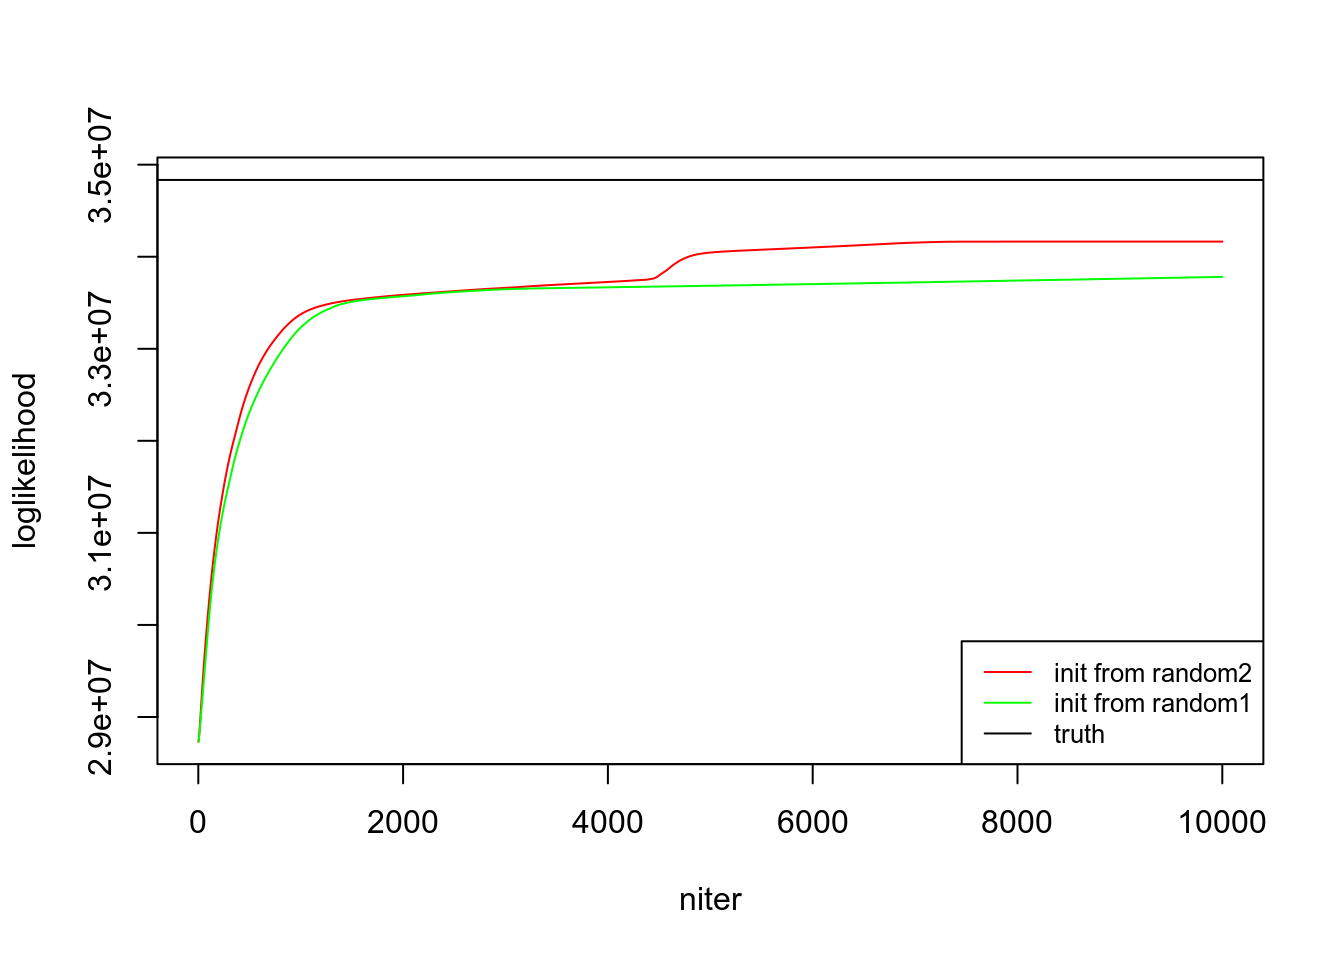
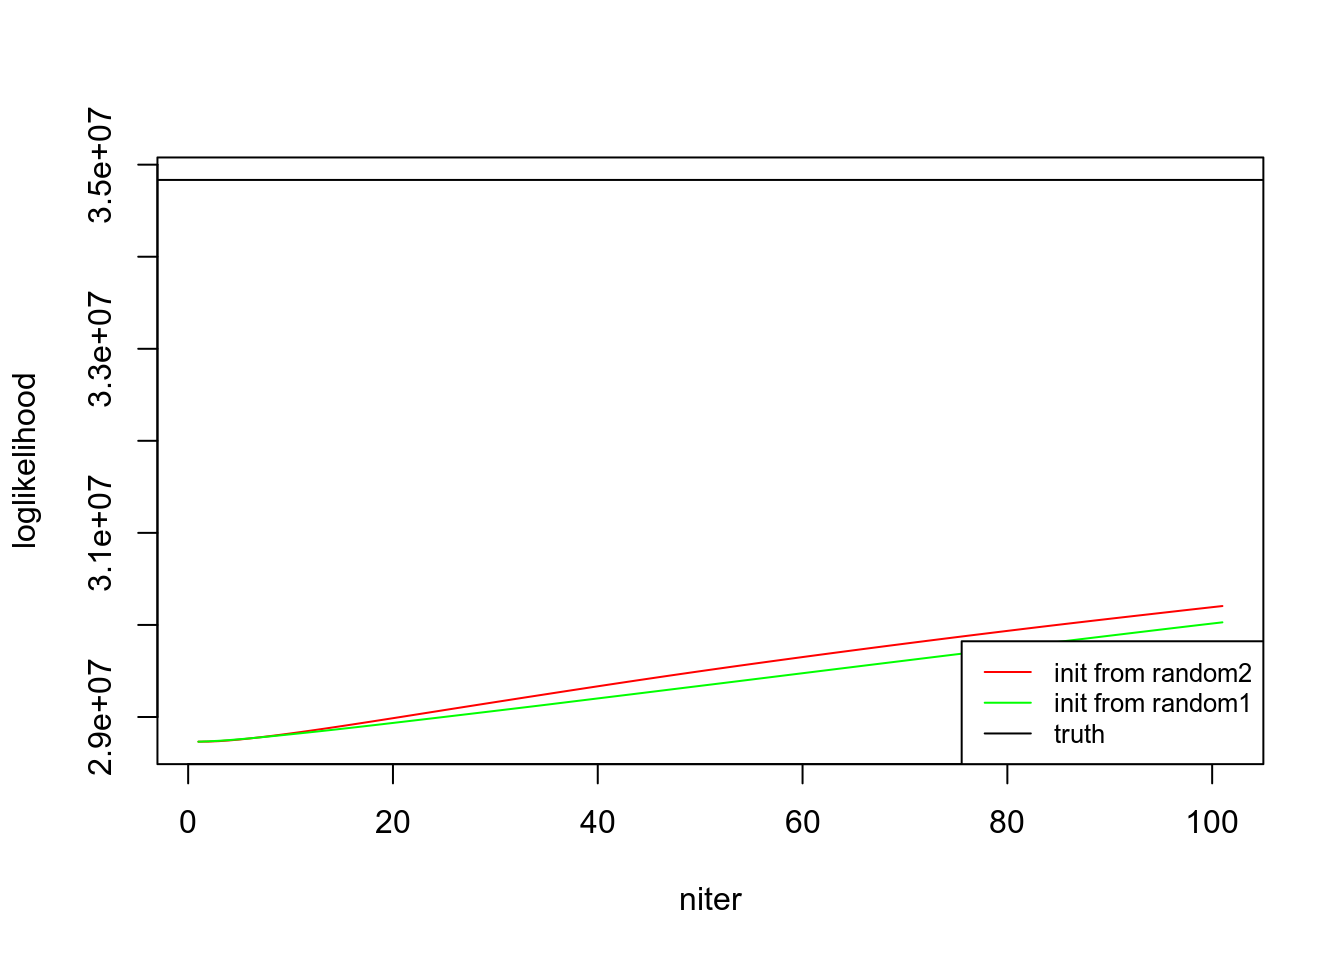
Build site.

diff --git a/docs/experiment_nb_means2.html b/docs/experiment_nb_means2.html
@@ -509,10 +509,10 @@ unnamed-chunk-3
 <div class="panel panel-default">
 <div class="panel-heading">
 <p class="panel-title">
-<a data-toggle="collapse" data-parent="#workflowr-checks" href="#strongRepositoryversionstrongahrefhttpsgithubcomzihao12ebpmfdemotreec487ef6f370ba98d4012d82a36557c9849fa5d11targetblankc487ef6a"> <span class="glyphicon glyphicon-ok text-success" aria-hidden="true"></span> <strong>Repository version:</strong> <a href="https://github.com/zihao12/ebpmf_demo/tree/c487ef6f370ba98d4012d82a36557c9849fa5d11" target="_blank">c487ef6</a> </a>
+<a data-toggle="collapse" data-parent="#workflowr-checks" href="#strongRepositoryversionstrongahrefhttpsgithubcomzihao12ebpmfdemotree7dc6921f296df5854e1e698ed3ac3aacebb5b230targetblank7dc6921a"> <span class="glyphicon glyphicon-ok text-success" aria-hidden="true"></span> <strong>Repository version:</strong> <a href="https://github.com/zihao12/ebpmf_demo/tree/7dc6921f296df5854e1e698ed3ac3aacebb5b230" target="_blank">7dc6921</a> </a>
 </p>
 </div>
[2 lines of base64/hex data omitted]
 <div class="panel-body">
 <p>
 Great! You are using Git for version control. Tracking code development and connecting the code version to the results is critical for reproducibility. The version displayed above was the version of the Git repository at the time these results were generated. <br><br> Note that you need to be careful to ensure that all relevant files for the analysis have been committed to Git prior to generating the results (you can use <code>wflow_publish</code> or <code>wflow_git_commit</code>). workflowr only checks the R Markdown file, but you know if there are other scripts or data files that it depends on. Below is the status of the Git repository when the results were generated:
@@ -528,7 +528,6 @@ Untracked files:
     Untracked:  analysis/demo_sparse_ebpmf_two_gamma_cache/
     Untracked:  analysis/ebpm_two_gamma_speed.Rmd
     Untracked:  analysis/experiment_ebpm_gammamix3_cache/
-    Untracked:  analysis/experiment_nb_means2_cache/
     Untracked:  analysis/experiment_nb_means_cache_0/
     Untracked:  analysis/fast_mle_nb.Rmd
     Untracked:  analysis/fast_weighted_nb.Rmd
@@ -596,6 +595,40 @@ Message
 </tr>
 </thead>
 <tbody>
+<tr>
+<td>
+Rmd
+</td>
+<td>
+<a href="https://github.com/zihao12/ebpmf_demo/blob/7dc6921f296df5854e1e698ed3ac3aacebb5b230/analysis/experiment_nb_means2.Rmd" target="_blank">7dc6921</a>
+</td>
+<td>
+zihao12
+</td>
+<td>
+2020-04-03
+</td>
+<td>
+add starting from truth
+</td>
+</tr>
+<tr>
+<td>
+html
+</td>
+<td>
+<a href="https://rawcdn.githack.com/zihao12/ebpmf_demo/e7af7f7bb3e526b199e171ffbf9848b1bd2d236c/docs/experiment_nb_means2.html" target="_blank">e7af7f7</a>
+</td>
+<td>
+zihao12
+</td>
+<td>
+2020-04-03
+</td>
+<td>
+Build site.
+</td>
+</tr>
 <tr>
 <td>
 Rmd
@@ -1025,12 +1058,10 @@ set.seed(123)</code></pre>
   )
   fit_init_random2[[&quot;runtime&quot;]] = runtime[[3]]
   
-  # runtime &lt;- system.time(
-  #   fit_init_truth &lt;- nb_means(Y, s, mu, A, maxiter = maxiter, verbose = verbose,
-  #                             control = list(gradient = TRUE, hessian = FALSE))
-  # )
-  # fit_init_truth[[&quot;runtime&quot;]] = runtime[[3]]
-  fit_init_truth = NULL
+  runtime &lt;- system.time(
+    fit_init_truth &lt;- nb_means(Y, s, mu, A, maxiter = 100, verbose = verbose,
+                              control = list(gradient = TRUE, hessian = FALSE)))
+  fit_init_truth[[&quot;runtime&quot;]] = runtime[[3]]
   
   return(list(Y = Y, Theta = Theta, mu = mu, Phi = Phi, ll_oracle = ll_oracle, 
               fit_init_random1 = fit_init_random1, fit_init_random2 = fit_init_random2, fit_init_truth = fit_init_truth))
@@ -1038,7 +1069,7 @@ set.seed(123)</code></pre>
 <!-- ```{r cache=TRUE, autodep=TRUE, message=FALSE, warning=FALSE} -->
 <!-- exper <- exper_nb_means(K = 10, p = 99, maxiter = 100, verbose = FALSE) -->
 <!-- ``` -->
-<pre class="r"><code>exper &lt;- exper_nb_means(K = 10, p = 999, maxiter = 10000, verbose = FALSE)</code></pre>
+<pre class="r"><code>exper &lt;- exper_nb_means(K = 10, p = 999, maxiter = 100, verbose = FALSE)</code></pre>
 <ul>
 <li>There are optimization issues when initializing from truth, or running too many iterations …</li>
 </ul>
@@ -1193,6 +1224,17 @@ Date
 <tbody>
 <tr>
 <td>
+<a href="https://github.com/zihao12/ebpmf_demo/blob/e7af7f7bb3e526b199e171ffbf9848b1bd2d236c/docs/figure/experiment_nb_means2.Rmd/unnamed-chunk-5-1.png" target="_blank">e7af7f7</a>
+</td>
+<td>
+zihao12
+</td>
+<td>
+2020-04-03
+</td>
+</tr>
+<tr>
+<td>
 <a href="https://github.com/zihao12/ebpmf_demo/blob/84a025dc22e01601f11c651547c872b36d32527f/docs/figure/experiment_nb_means2.Rmd/unnamed-chunk-5-1.png" target="_blank">84a025d</a>
 </td>
 <td>
@@ -1300,6 +1342,17 @@ Date
 </tr>
 </thead>
 <tbody>
+<tr>
+<td>
+<a href="https://github.com/zihao12/ebpmf_demo/blob/e7af7f7bb3e526b199e171ffbf9848b1bd2d236c/docs/figure/experiment_nb_means2.Rmd/unnamed-chunk-6-1.png" target="_blank">e7af7f7</a>
+</td>
+<td>
+zihao12
+</td>
+<td>
+2020-04-03
+</td>
+</tr>
 <tr>
 <td>
 <a href="https://github.com/zihao12/ebpmf_demo/blob/84a025dc22e01601f11c651547c872b36d32527f/docs/figure/experiment_nb_means2.Rmd/unnamed-chunk-6-1.png" target="_blank">84a025d</a>
@@ -1415,12 +1468,13 @@ other attached packages:
 [1] workflowr_1.6.0
 
 loaded via a namespace (and not attached):
- [1] Rcpp_1.0.3      rprojroot_1.3-2 digest_0.6.23   later_1.0.0    
- [5] R6_2.4.1        backports_1.1.5 git2r_0.26.1    magrittr_1.5   
- [9] evaluate_0.14   stringi_1.4.5   rlang_0.4.4     fs_1.3.1       
-[13] promises_1.1.0  whisker_0.4     rmarkdown_2.1   tools_3.6.3    
-[17] stringr_1.4.0   glue_1.3.1      httpuv_1.5.2    xfun_0.12      
-[21] yaml_2.2.1      compiler_3.6.3  htmltools_0.4.0 knitr_1.28     </code></pre>
+ [1] Rcpp_1.0.3       codetools_0.2-16 rprojroot_1.3-2  digest_0.6.23   
+ [5] later_1.0.0      R6_2.4.1         backports_1.1.5  git2r_0.26.1    
+ [9] magrittr_1.5     evaluate_0.14    stringi_1.4.5    rlang_0.4.4     
+[13] fs_1.3.1         promises_1.1.0   whisker_0.4      rmarkdown_2.1   
+[17] tools_3.6.3      stringr_1.4.0    glue_1.3.1       httpuv_1.5.2    
+[21] xfun_0.12        yaml_2.2.1       compiler_3.6.3   htmltools_0.4.0 
+[25] knitr_1.28      </code></pre>
 </div>
 </div>
 
